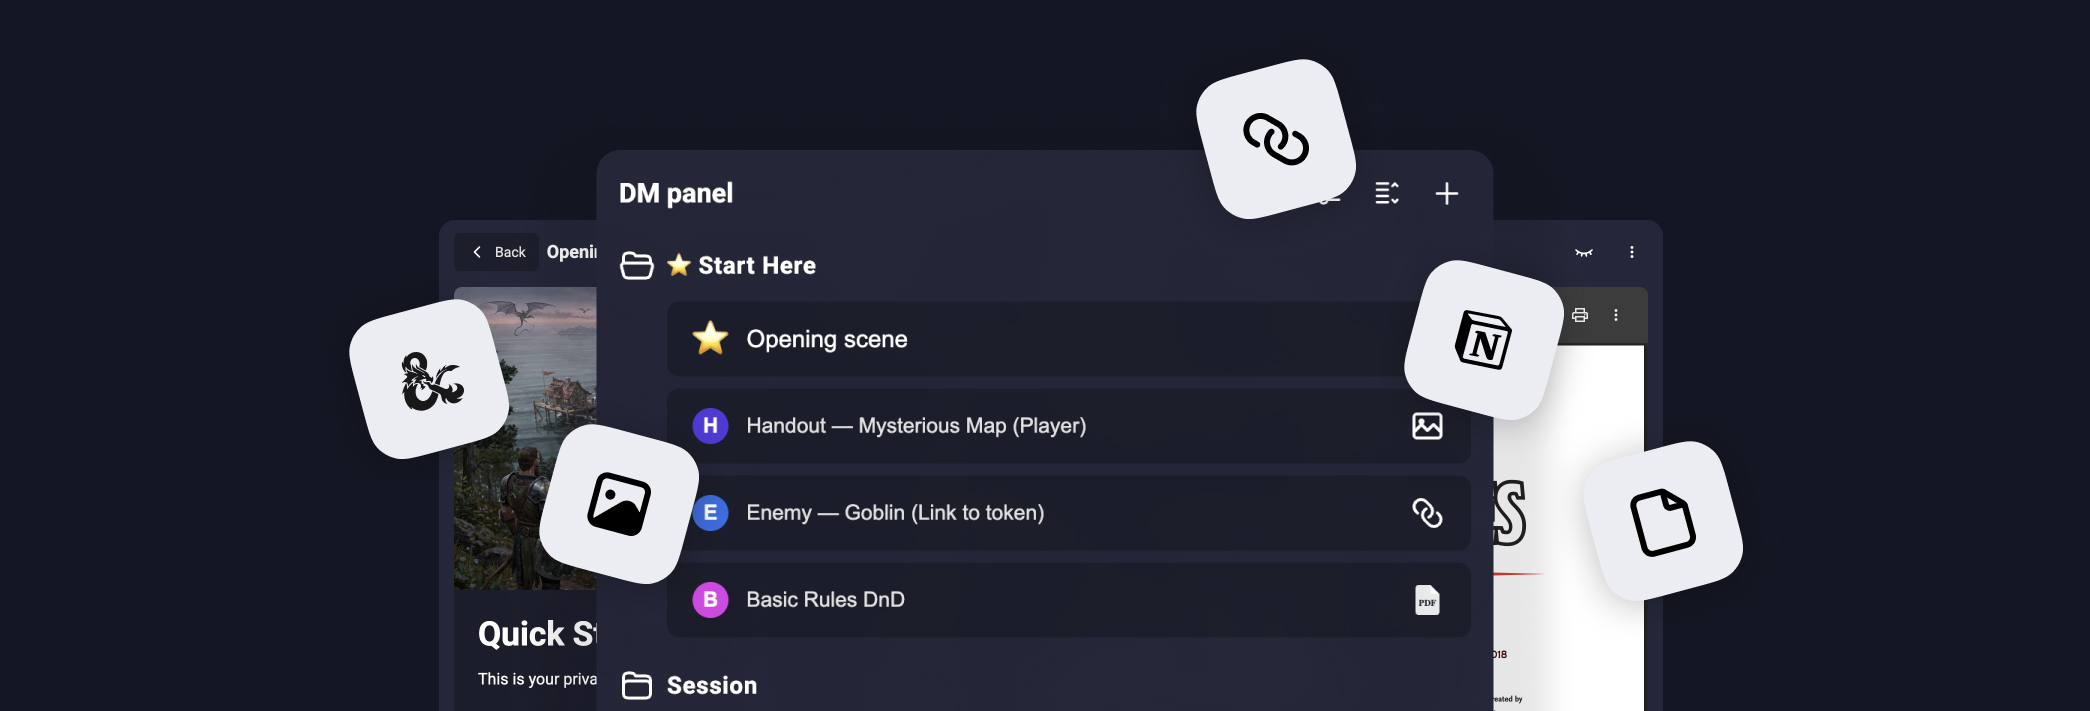
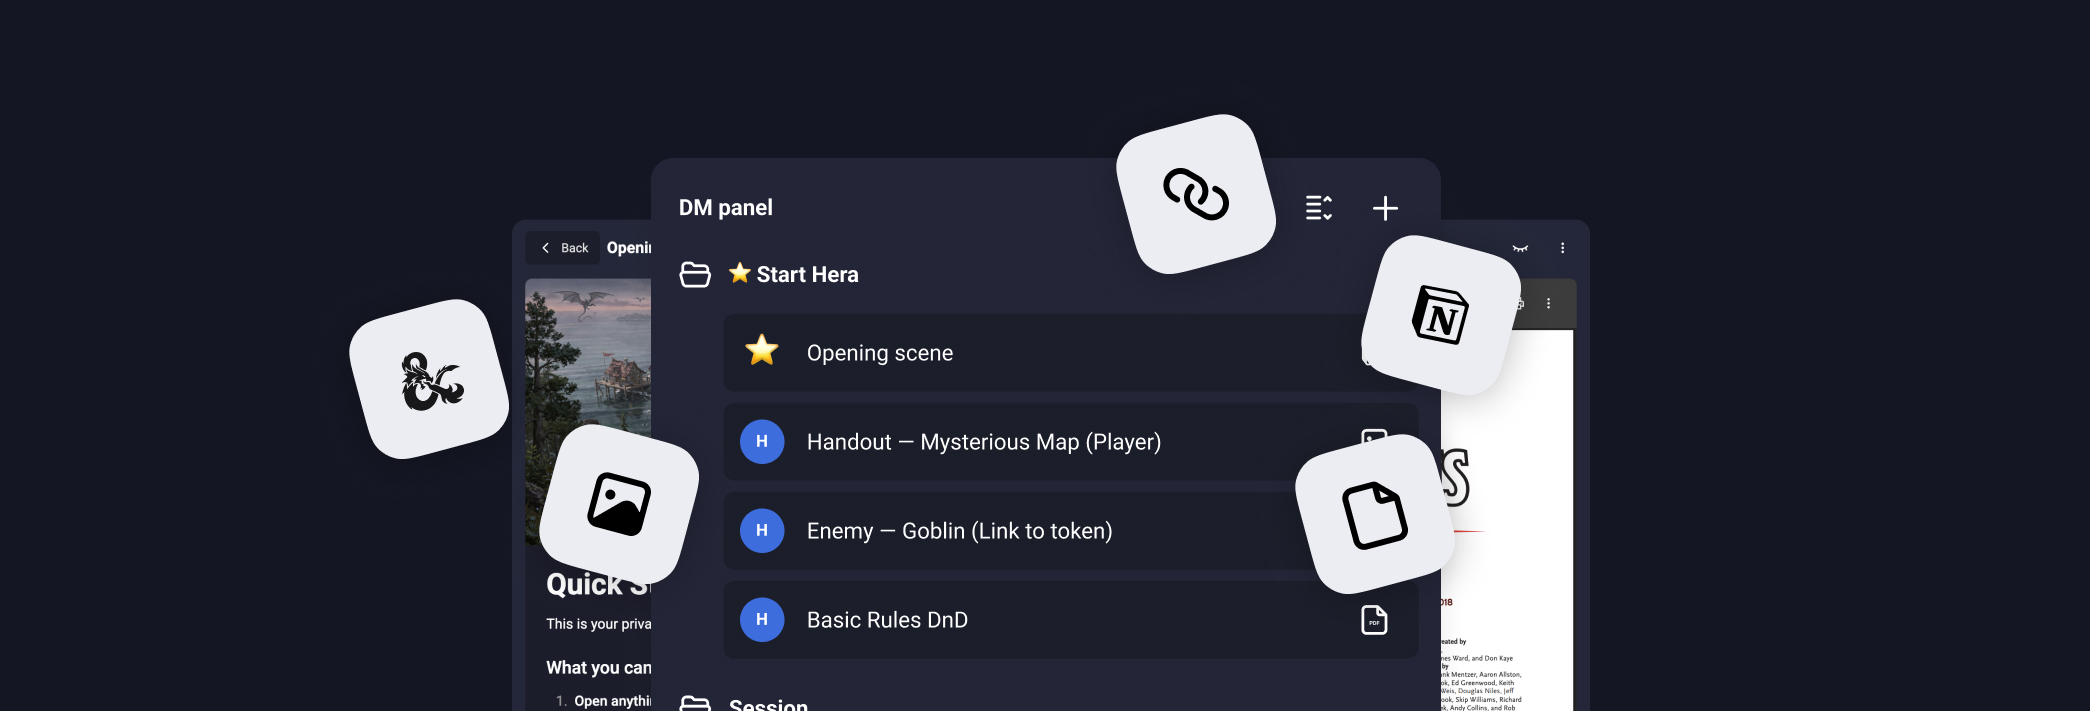
update(image and license) add trademark.md and new images

diff --git a/docs/store.md b/docs/store.md
@@ -2,7 +2,7 @@
 title: DM Panel
 description: Bring your Notion notes, PDFs, and handouts into Owlbear Rodeo — share with players when it matters
 author: Lole Román - lolergb
-image: https://owlbear-dm-panel.netlify.app/img/cover-dmscreen.jpg
+image: https://owlbear-dm-panel.netlify.app/img/cover-dmpanel.jpg
 icon: https://owlbear-dm-panel.netlify.app/icon.svg
 tags:
   - dm-tools
@@ -16,7 +16,11 @@ learn-more: https://github.com/lolergb/owlbear-dm-panel
 # DM Panel
 
 DM Panel is a lightweight DM panel for Owlbear Rodeo.  
-Open **Notion pages**, **PDFs**, and **links** inside your room — keep notes **DM-only by default** and share selected content with players when the story needs it.
+Open **Notion pages**, **PDFs**, and **links** inside your room — keep content **DM-only by default** and share selected notes and handouts with players when it matters.
+
+> **Official builds:** Only manifests served from `owlbear-dm-panel.netlify.app` are official. See [TRADEMARK.md](https://github.com/lolergb/owlbear-dm-panel/blob/main/TRADEMARK.md) for branding policy.
+
+![Highlights](https://owlbear-dm-panel.netlify.app/img/share-with-players-using-the-eye-toggle.jpg)
 
 ## Highlights
 
@@ -27,25 +31,63 @@ Open **Notion pages**, **PDFs**, and **links** inside your room — keep notes *
 - **Token links:** right-click a token to link a page and open it instantly later
 - **Reload when needed:** use **🔄** to pull the latest changes
 
+---
+
+![Start Here](https://owlbear-dm-panel.netlify.app/img/add-your-first-folder-and-page.jpg)
+
+## Start Here (built-in onboarding)
+
+DM Panel includes a small “Start Here” structure in every room so you can learn by using it:
+
+- **⭐ Quick Start** (what buttons do)
+- **Handout — Mysterious Map** (try full screen + show to players)
+- **Enemy — Goblin** (link to a token)
+- **Notes — Session Notes** (a ready-to-use Notion template)
+
+> You can edit, rename, or delete everything. Nothing is shared unless you choose to.
+
+---
+
+![Quick start](https://owlbear-dm-panel.netlify.app/img/open-notes-instantly-during-play.jpg)
+
 ## Quick start
 
-1) Add the extension in Owlbear using the manifest URL below  
-2) Click **➕** to add folders or pages  
-3) Add a Notion page / PDF / link  
-4) Share anything with **👁** when you’re ready
-
-Manifest:
+1) Add DM Panel using this manifest URL:  
 https://owlbear-dm-panel.netlify.app/manifest.json
 
-livecodeserver
-Copy code
+2) Open the extension inside your room
+
+3) Try the **⭐ Start Here** folder:
+- Click an item to open it
+- Toggle **👁** to share/hide
+- Click the image to show it full screen
+
+4) Build your own structure with **➕** (folders + pages)
+
+---
+
+![What you can add](https://owlbear-dm-panel.netlify.app/img/bring-notion-pdf-and-web-pages.jpg)
+
+## What you can add
+
+- **Notion pages** (private or public — shared with your integration)
+- **PDFs** (public URLs)
+- **External links** (optional CSS selector to show only a section)
+
+---
+
+![Notion setup](https://owlbear-dm-panel.netlify.app/img/players-dont-need-notion-access.jpg)
 
 ## Notion setup (optional)
 
 If you want to use private Notion pages, paste your Notion token in **Settings**.  
 Players don’t need a token.
 
+---
+
+![Support](https://owlbear-dm-panel.netlify.app/img/update-content-when-you-change-notes.jpg)
+
 ## Support
 
-If you need help, have suggestions, or want to report a bug, please visit this Notion page:  
-https://solid-jingle-6ee.notion.site/DM-Screen-Roadmap-2d8d4856c90e8088825df40c3be24393?source=copy_link
+If you need help, have suggestions, or want to report a bug, please visit:  
+https://solid-jingle-6ee.notion.site/DM-Panel-Roadmap-2d8d4856c90e8088825df40c3be24393?source=copy_link

diff --git a/README.md b/README.md
@@ -35,6 +35,8 @@ https://owlbear-dm-panel.netlify.app/manifest.json
 
 Or use the URL provided by the extension developer.
 
+> **Official builds:** Only manifests served from `owlbear-dm-panel.netlify.app` are official.
+
 ## 📖 How to use DM panel
 
 > 💡 **New to the extension?** Check out the [complete UI features guide](docs/USER_FEATURES.md) for a detailed explanation of all buttons, menus, and functionality.

diff --git a/TRADEMARK.md b/TRADEMARK.md
@@ -1,0 +1,8 @@
+# Trademark Policy
+
+The names DM Panel and Lole Román / lolergb, the logo/icon, and promotional images are trademarks/copyright of the author.
+
+You may fork the code under the code license, but you may not use the project name, logo, or branding to distribute a derivative as if it were the original.
+
+Derivative projects must use a different name and branding.
+
